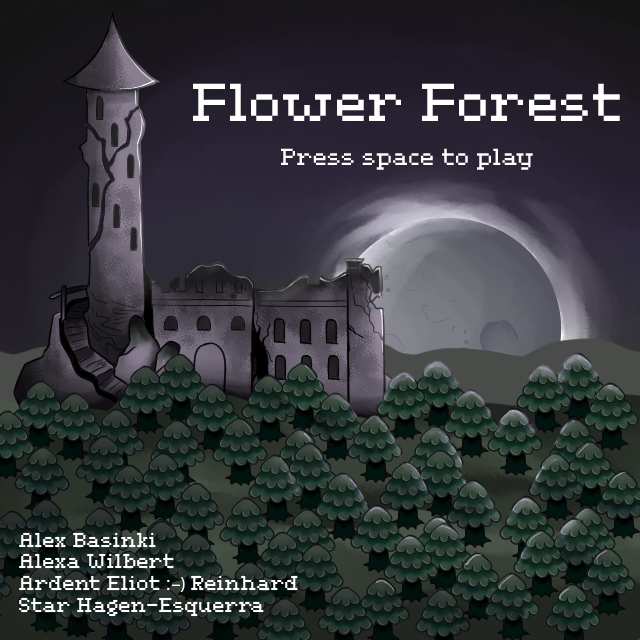
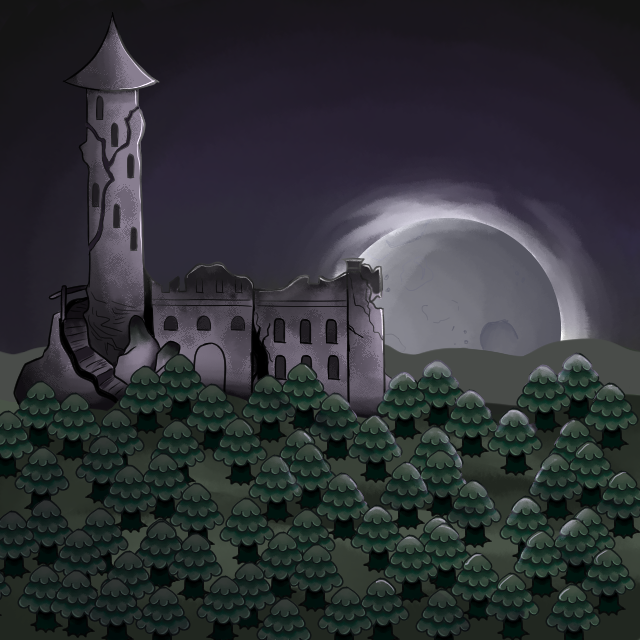
new title screen

diff --git a/src/scenes/Menu.js b/src/scenes/Menu.js
@@ -7,6 +7,8 @@ class Menu extends Phaser.Scene {
     }
     preload() {
         this.load.image("menu ui", "./assets/ui/title_screen.png");
+        this.load.image("menu text", "./assets/ui/title_screen_text.png");
+        this.load.image("menu names", "./assets/ui/title_screen_names.png");
         this.load.spritesheet("flowerCrumb", "./assets/gamepieces/flower.png", 
             {frameWidth: 64, frameHeight: 64, startFrame: 0, endFrame: 6});
         this.load.json("text JSON", "./assets/text/text.json");
@@ -25,6 +27,28 @@ class Menu extends Phaser.Scene {
         this.select.setVolume(1.5);
 
         this.add.sprite(0, 0, "menu ui").setOrigin(0, 0);
+
+        this.menuText = this.add.sprite(config.width*-1, 0, "menu text").setOrigin(0, 0);
+
+        this.menuNames = this.add.sprite(0, config.height*-1, "menu names").setOrigin(0, 0);
+
+        this.tweens.add({
+            targets: [this.menuText],
+            x: {from: config.width*-1, to: 0},
+            duration: 2000,
+            ease: "Sine.Out",
+            delay: 1500
+        });
+
+        this.tweens.add({
+            targets: [this.menuNames],
+            y: {from: config.height*-1, to: 0},
+            duration: 2000,
+            ease: "Sine.Out",
+            delay: 1500
+        });
+
+        
         
         this.input.keyboard.on("keydown-SPACE", () => {
             this.select.play();
